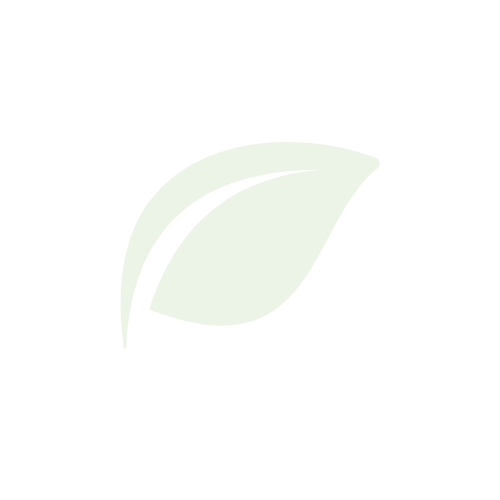
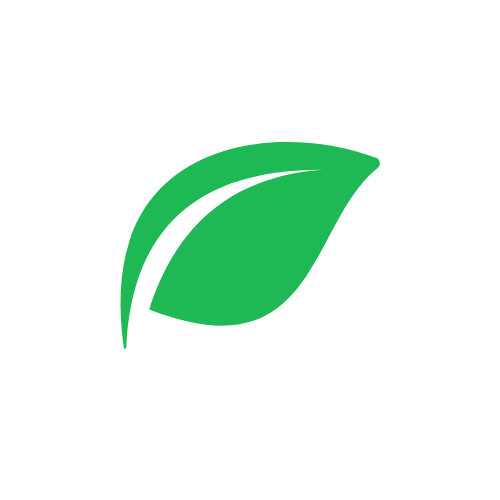
add theme changer to local storage to save previous choice

Changed region(s): [[0.24, 0.27, 0.78, 0.69]]

diff --git a/assets/script.js b/assets/script.js
@@ -2,6 +2,16 @@ var themeBtn = $('#themeBtn');
 var themeBtnImg = $('#themeBtnImg');
 var htmlEl = $('#htmlTag');
 
+var theme;
+
+if(localStorage.getItem("theme") === null) {
+    localStorage.setItem("theme", theme);
+}
+
+theme = localStorage.getItem("theme");
+htmlEl.attr('data-theme', theme);
+themeBtnImg.attr('src', "./assets/" + theme + "Mode.png");
+
 themeBtn.on("click", changeTheme);
 
 function changeTheme() {
@@ -14,4 +24,6 @@ function changeTheme() {
         themeBtnImg.attr('src', "./assets/gardenMode.png");
         console.log('button pressed, changed to forest theme')
     }
+    theme = htmlEl.attr('data-theme');
+    localStorage.setItem("theme", theme);
 }

diff --git a/index.html b/index.html
@@ -1,5 +1,5 @@
 <!DOCTYPE html>
-<html id="htmlTag" data-theme="forest" lang="en">
+<html id="htmlTag" data-theme="garden" lang="en">
 <head>
     <meta charset="UTF-8">
     <meta http-equiv="X-UA-Compatible" content="IE=edge">
